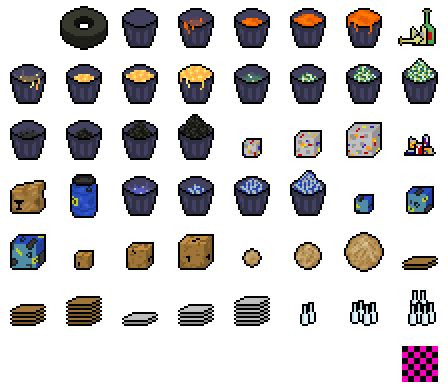
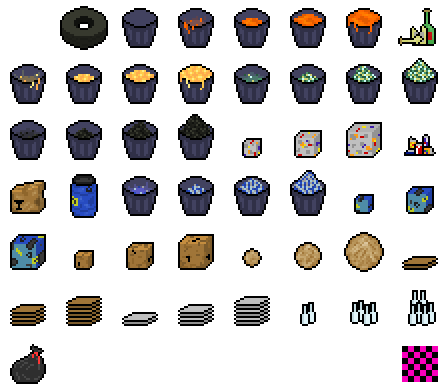
Poubelles implementee

Changed region(s): [[0.0, 0.8571, 0.125, 0.9796]]

diff --git a/machine/Etabli.js b/machine/Etabli.js
@@ -1,4 +1,4 @@
-Etabli = function(sprite, posx, posy, groupe,itemgroupe){
+Etabli = function(sprite, posx, posy, poubelles, groupe,itemgroupe){
 	this.etabli = groupe.create(posx, posy, sprite);
 	
 	this.table1 = new Table(null, posx, posy + 12, groupe,itemgroupe);
@@ -11,6 +11,14 @@ Etabli = function(sprite, posx, posy, groupe,itemgroupe){
 	this.table1.interact = () => {this.interact();};
 	this.table2.interact = () => {this.interact();};
 	this.table3.interact = () => {this.interact();};
+	
+	// On enleve les sacs des possibles objets sortant des sacs poubelle
+	this.mapJunk = [];
+	for(let i = 0; i < poubelles.length; i++){
+		if(poubelles[i] != itemsId.Poubelle){
+			this.mapJunk.push(poubelles[i]);
+		}
+	}
 }
 
 Etabli.prototype.interact = function(){ 
@@ -40,6 +48,27 @@ Etabli.prototype.interact = function(){
 			}else if(this.table2.stock == itemsId.Verre){
 				this.table2.drop(0);
 			}
+		}
+	}
+	
+	// Si un sac poubelle est sur une table
+	if(this.table1.stock == itemsId.Poubelle || this.table2.stock == itemsId.Poubelle || this.table3.stock == itemsId.Poubelle){
+		// Si un sac est sur la table 1, 2 ou 3 et les autres tables vides
+		if(this.table1.stock == itemsId.Poubelle && this.table2.stock == 0 && this.table3.stock == 0){
+			this.table1.drop(0);
+			this.table1.drop(this.mapJunk[Math.floor(Math.random() * this.mapJunk.length)]); // Ce dechet est toujours present
+			this.table2.drop((Math.floor(Math.random() * 2)) == 0 ? this.mapJunk[Math.floor(Math.random() * this.mapJunk.length)] : 0); // 1 chance sur 2
+			this.table3.drop((Math.floor(Math.random() * 2)) == 0 ? this.mapJunk[Math.floor(Math.random() * this.mapJunk.length)] : 0); // 1 chance sur 2
+		}else if(this.table2.stock == itemsId.Poubelle && this.table1.stock == 0 && this.table3.stock == 0){
+			this.table2.drop(0);
+			this.table2.drop(this.mapJunk[Math.floor(Math.random() * this.mapJunk.length)]); // Ce dechet est toujours present
+			this.table1.drop((Math.floor(Math.random() * 2)) == 0 ? this.mapJunk[Math.floor(Math.random() * this.mapJunk.length)] : 0); // 1 chance sur 2
+			this.table3.drop((Math.floor(Math.random() * 2)) == 0 ? this.mapJunk[Math.floor(Math.random() * this.mapJunk.length)] : 0); // 1 chance sur 2			
+		}else if(this.table3.stock == itemsId.Poubelle && this.table1.stock == 0 && this.table2.stock == 0){
+			this.table3.drop(0);
+			this.table3.drop(this.mapJunk[Math.floor(Math.random() * this.mapJunk.length)]); // Ce dechet est toujours present
+			this.table1.drop((Math.floor(Math.random() * 2)) == 0 ? this.mapJunk[Math.floor(Math.random() * this.mapJunk.length)] : 0); // 1 chance sur 2
+			this.table2.drop((Math.floor(Math.random() * 2)) == 0 ? this.mapJunk[Math.floor(Math.random() * this.mapJunk.length)] : 0); // 1 chance sur 2			
 		}
 	}
 }

diff --git a/data.js b/data.js
@@ -14,11 +14,11 @@ var levels = [
       [ 3, 0, 0, 0, 1, 8, 9, 21, 16, 17, 0, 0, 0, 0, 0, 0, 0, 0, 0,20, 3],
       [ 3, 3, 3, 3, 3, 3, 3, 3, 3, 3, 3, 3, 3,22,22, 3, 3,22,22, 3, 3]
     ],
-    items: [itemsId.Pneu, itemsId.Plastique, itemsId.Metal, itemsId.Verre, itemsId.Carton, itemsId.Sceau],
-    itemsTime: 1000000,
-    itemsPattern: false,
-    itemSpeed : 50,
-    chrono: 1,
+    items: [itemsId.Pneu, itemsId.Poubelle, itemsId.Plastique, itemsId.Metal, itemsId.Verre, itemsId.Carton, itemsId.Sceau, itemsId.Poubelle],
+    itemsTime: 10000,
+    itemsPattern: true,
+    itemSpeed : 100,
+    chrono: 3600,
     score : 1000,
     polution : 10,
     spawnpoints: [[2,4],[3,4],[4,4],[5,4]],
@@ -26,7 +26,7 @@ var levels = [
     imagePath: "assets/miniMap/Troll.PNG",
     name: "Level test",
     tutoText: [],
-    tips : "Vous savez, moi je ne crois pas qu\’il y ait de bonne ou de mauvaise situation. Moi, si je devais résumer ma vie aujourd\’hui avec vous, je dirais que c\’est d\’abord des rencontres. Des gens qui m’ont tendu la main, peut-être à un moment où je ne pouvais pas, où j’étais seul chez moi. Et c’est assez curieux de se dire que les hasards, les rencontres forgent une destinée... Parce que quand on a le goût de la chose, quand on a le goût de la chose bien faite, le beau geste, parfois on ne trouve pas l’interlocuteur en face je dirais, le miroir qui vous aide à avancer.",
+    tips : "Vous savez que ce niveau est là pour le debug hein?",
   },
   {
     matrice: [

diff --git a/Creatmap.js b/Creatmap.js
@@ -115,7 +115,7 @@
 			tuile.body.immovable = true;
 			tuile2.body.immovable = true;
 			tuile3.body.immovable = true;
-			map[j][i] = new Etabli('etabli',i*64,j*64 - (96-64),object,itemGui);;
+			map[j][i] = new Etabli('etabli',i*64,j*64 - (96-64),level.items,object,itemGui);;
 			map[j][i+1] = map[j][i].table2;
 			map[j][i+2] = map[j][i].table3;
 			break;}
@@ -124,9 +124,9 @@
 			let tuile = platformsSolid.create(i*64, j*64, 'ground');
 			tuile.body.immovable = true;
 			map[j][i] = new Presse('presse',i*64,j*64 - (108-64),object,itemGui);
-		break;}
+		    break;}
 
-	  case 9:{ // BASSINE
+		  case 9:{ // BASSINE
 			let tuile = platformsSolid.create(i*64, j*64, 'ground');
 			tuile.body.immovable = true;
 			map[j][i] = new Bassine('bassine',i*64,j*64 - (82-64),object,itemGui);
@@ -166,9 +166,9 @@
 			let tuile = platformsSolid.create(i*64, j*64, 'ground');
 			tuile.body.immovable = true;
 			map[j][i] = new Arrive('arrive',i*64,j*64 - (90-64),object, level.items, level.itemsTime-((MenuOpt.nbPlayers-2)*1000), level.itemsPattern);
-		break;}
+			break;}
 
-	  case 16:{ // BENNE VERRE
+	      case 16:{ // BENNE VERRE
 			let tuile = platformsSolid.create(i*64, j*64, 'ground');
 			tuile.body.immovable = true;
 			map[j][i] = new Benne('benneverre',i*64,j*64 - (84-64),object,'verre');

diff --git a/itemsid.js b/itemsid.js
@@ -46,5 +46,5 @@ var itemsId = Object.freeze({
   PateCarton1:36,
   PateCarton2:37,
   PateCarton3:38,
-
+  Poubelle:48
 });
